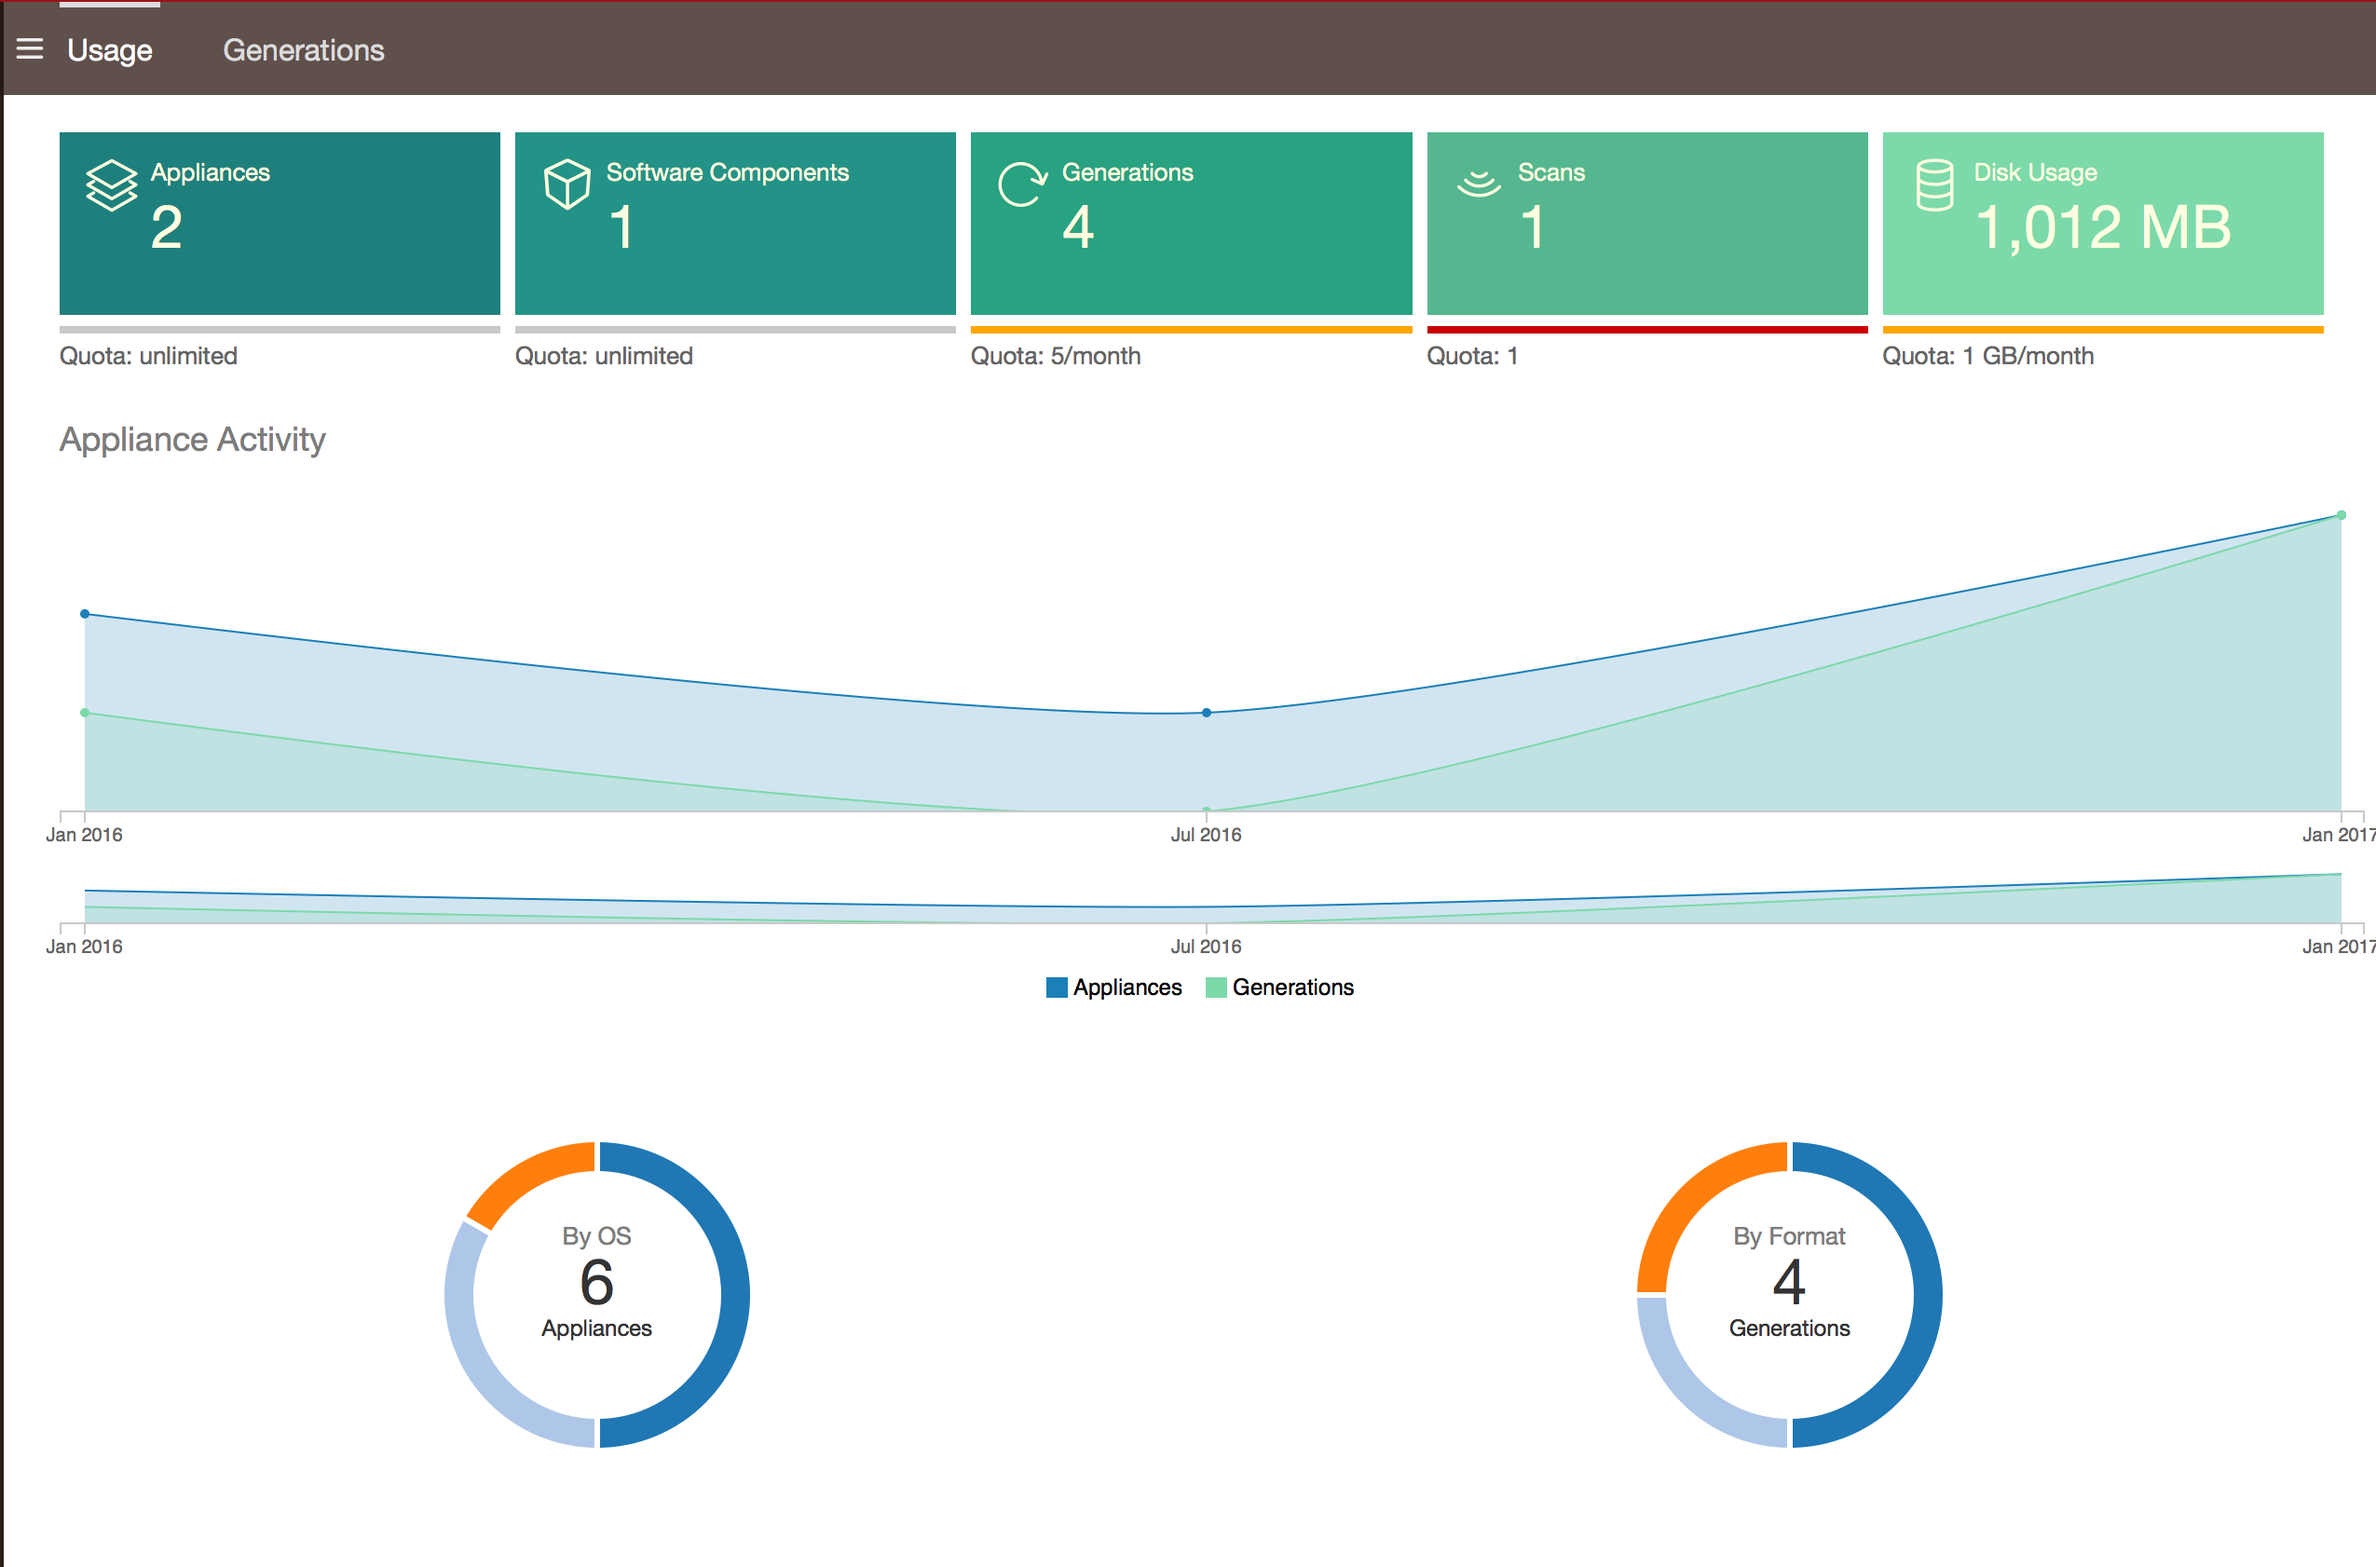
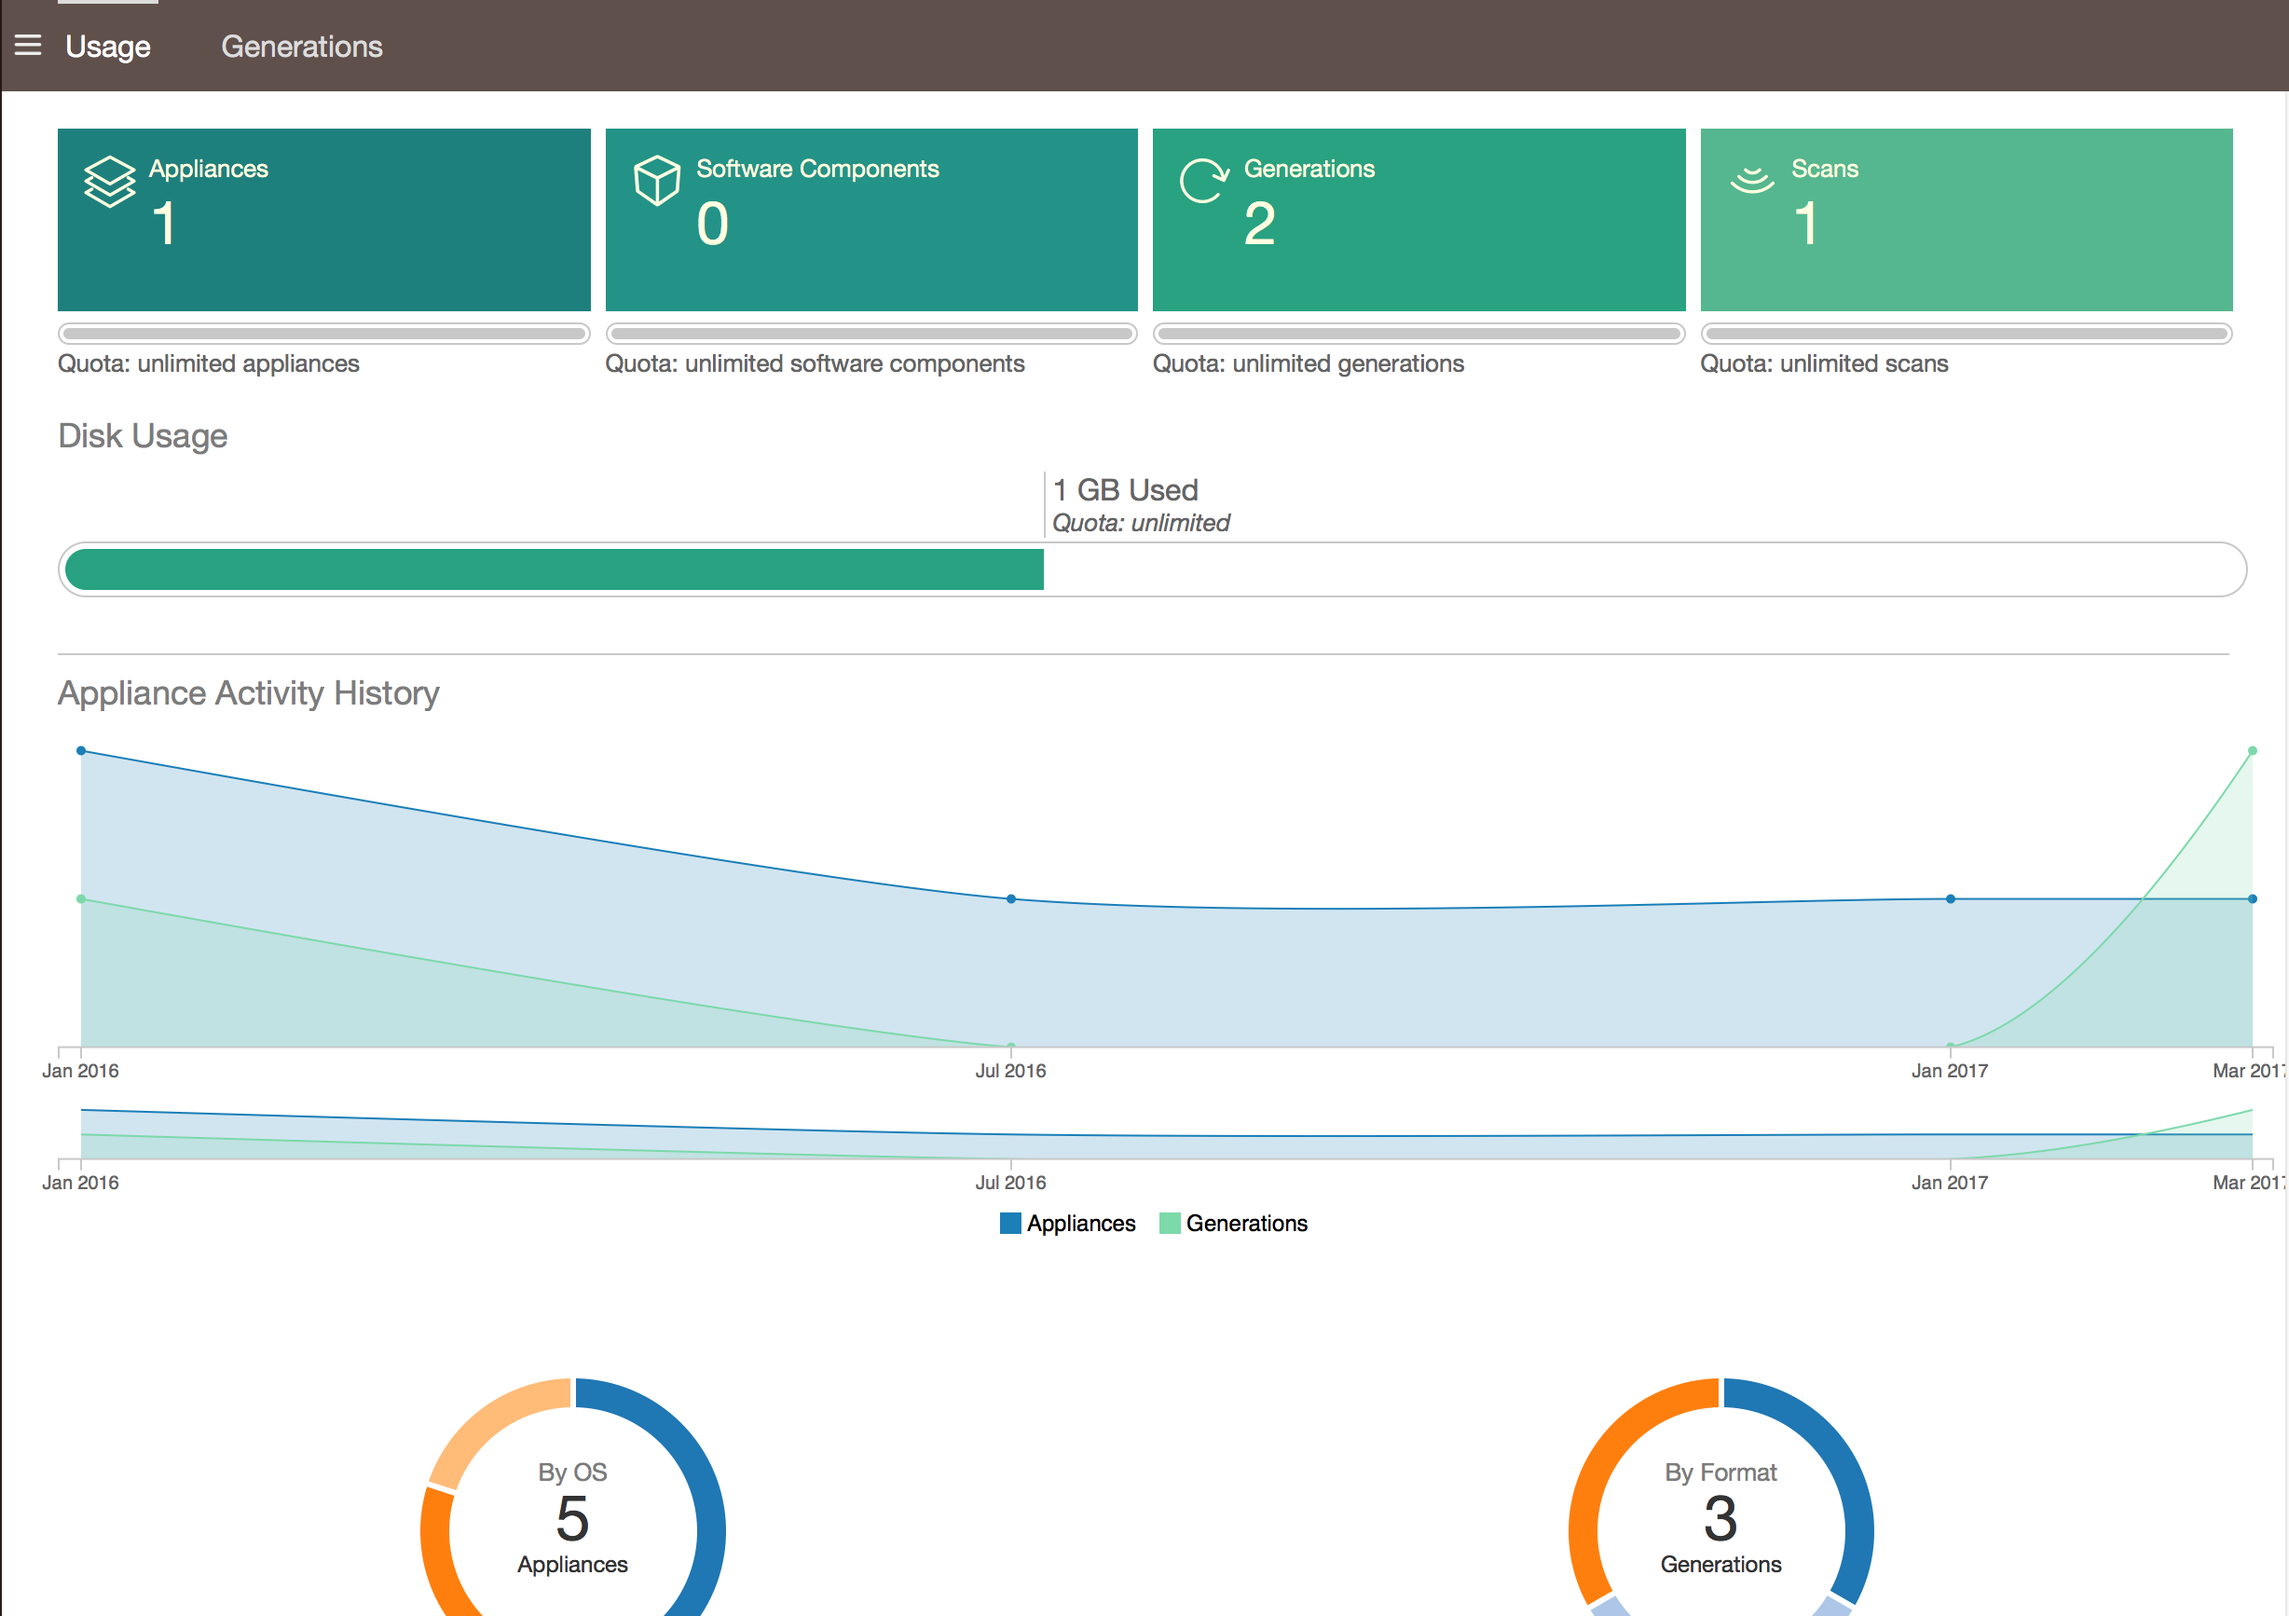
Updated the user statistics information with new description and screenshots

diff --git a/end-user/en/source/pages/myaccount/user-profile.rst b/end-user/en/source/pages/myaccount/user-profile.rst
@@ -30,19 +30,20 @@ Your Usage
 
 When you log in to the UForge Portal, the first page you will see is the ``Dashboard`` > ``Usage`` sub tab. This view displays your statistics on the platform.
 
-The first part of the page displays your quota consumption and a summary of your quota limit for appliance templates, software components, machine image generations, scans created and disk usage.
+The first part of the page displays your current usage and quota information for appliance templates, software components, machine image generations and scans created.
 
-The ``Appliances`` summary shows the number of appliance templates you currently have in your Appliance Library.  If you have reached your quota limit, you can delete existing appliance templates to free up space to create new ones.  This information is not shown if you do not have access to creating and managing appliance templates.
+The ``Appliances`` summary shows the number of appliance templates you currently have in your Appliance Library.  Your quota usage and limit is displayed under the summary information.  If you have reached your quota limit, you can delete existing appliance templates to free up space to create new ones.  This information is not shown if you do not have access to creating and managing appliance templates.
 
-The ``Software Components`` summary is the number of software components (also known as software bundles) you currently have in your Software Library.  If you have reached your quota limit, you can delete existing software components to free up space to create new ones.  This information is not shown if you do not have access to creating and managing appliance templates (as these software components are added to appliance templates).
+The ``Software Components`` summary is the number of software components (also known as software bundles) you currently have in your Software Library.  Your quota usage and limit is displayed under the summary information.  If you have reached your quota limit, you can delete existing software components to free up space to create new ones.  This information is not shown if you do not have access to creating and managing appliance templates (as these software components are added to appliance templates).  This information is not shown if you do not have access to creating and managing appliance templates.
 
-The ``Generations`` summary is the number of machine images you have generated from appliance templates or scans.  The number of generations is measured on the number of successful machine images you requested over a period of time; and not necessarily the number of machine images you currently have listed on your account.  Even if you delete an existing machine image, this does not change this value.  This value will be reset if you have a quota that is associated with a frequency (e.g. 5 generations per month).  If you cancel a generation or if there is an error during the generation, this value is not updated. 
+The ``Generations`` summary is the number of machine images you have currently stored on the platform.  These machine images are generated from appliance templates or scans.  Your quota usage and limit is displayed under the summary information.  The quota information is measured on the number of successful machine images you have requested over a period of time; and not necessarily the number of machine images you currently have listed on your account.  Even if you delete an existing machine image, the quota usage will not be changed.  Your quota usage will be reset if you have a quota that is associated with a frequency (e.g. 5 generations per month).  If you cancel a generation or if there is an error during the generation, the quota value is not updated. 
 
-The ``Scans`` summary displays the number of successful live machine scans you have carried out.  This number does not reflect the number of scans you currently have in your account.  If you delete a scan from your account the value is not changed.  This value will be reset if you have a quota that is associated with a frequency (e.g. 5 scans per month).  If you cancel a scan or if there is an error during a scan, the value is not updated.
+The ``Scans`` summary displays the current number of successful live machine scans stored on the platform.  Your quota usage and limit is displayed under the summary information.  The quota information is measured on the number of successful scans you hve requested over a period of time.  This number does not necessarily reflect the number of scans you currently have in your account.  If you delete a scan from your account the quota value is not changed.  Your quota usage will be reset if you have a quota that is associated with a frequency (e.g. 5 scans per month).  If you cancel a scan or if there is an error during a scan, the quota usage is not updated.  This information is not shown if you do not have access to migration features.
 
-The ``Disk Usage`` summary shows the disk space consumed by you for storing software components, machine images and scan data.  If you have reached your quota limit, you can delete software components, machine images or scans to save space.
 
 The rest of the ``Usage`` page provides more detailed activity information including:
+
+	* Your ``Disk Usage``.  This shows the disk space consumed by you for storing software components, machine images and scan data.  If you have reached your quota limit, you can delete software components, machine images or scans to save space.
 
 	* An ``Appliance Activity`` displaying a timeline of the number of appliance templates and machine image generations created.  It also provides a breakdown of operating systems used in the appliances and the types of formats of the generated machine images.
 
